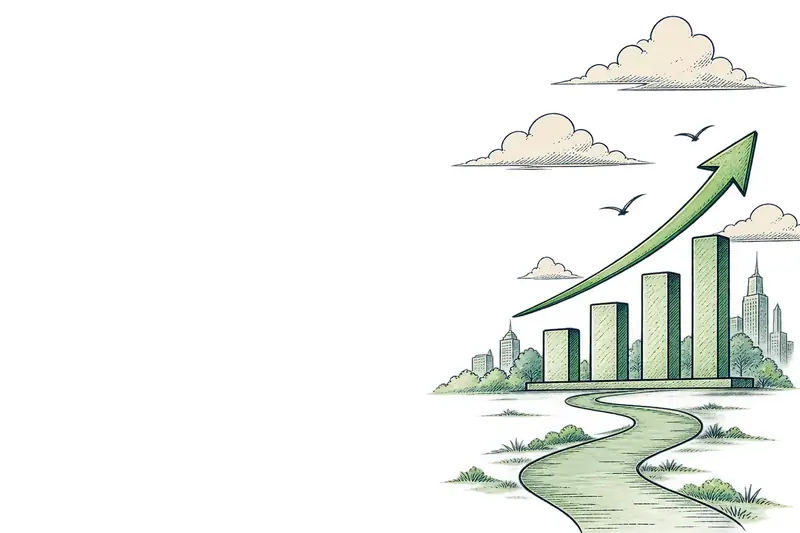
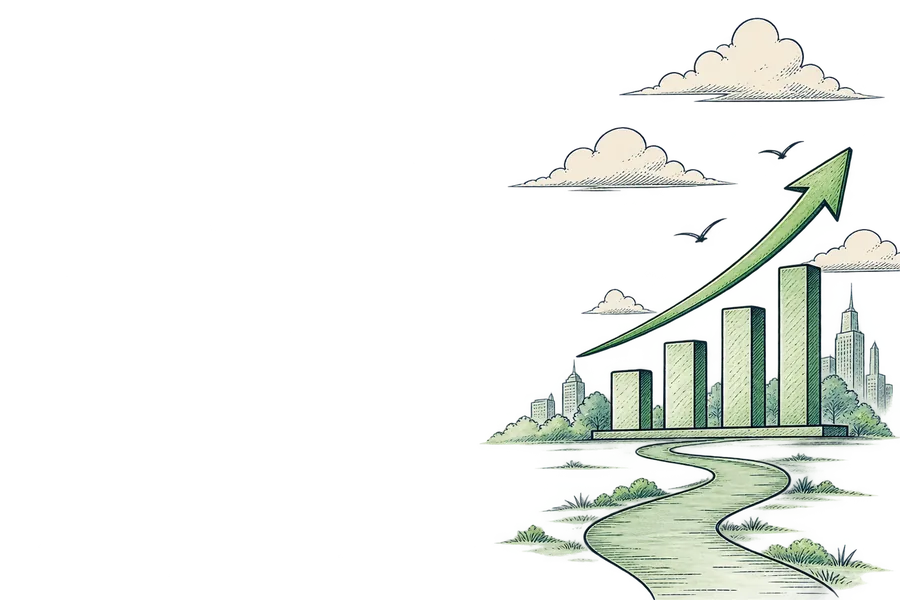
Fix white boxes behind curriculum illustrations.
Replace flattened opaque card webps with alpha-preserving versions so illustrations sit on the tinted cards.

diff --git a/src/components/sections/Modules.tsx b/src/components/sections/Modules.tsx
@@ -45,14 +45,14 @@ function ModuleCard({ mod }: { mod: WorkflowModule }) {
         </p>
       </div>
 
-      <div className="pointer-events-none absolute inset-y-0 right-0 w-[42%] md:w-[44%]">
+      <div className="pointer-events-none absolute inset-y-0 right-0 w-[42%] bg-transparent md:w-[44%]">
         <Image
           src={mod.image}
           alt=""
           fill
           loading="lazy"
-          quality={60}
-          className="origin-bottom-right scale-[1.08] object-contain object-right-bottom opacity-95"
+          quality={80}
+          className="origin-bottom-right scale-[1.08] bg-transparent object-contain object-right-bottom"
           sizes="(max-width: 768px) 42vw, 22vw"
         />
       </div>
@@ -69,13 +69,13 @@ export function Modules() {
         className="pointer-events-none absolute bottom-0 left-0 z-0 h-[70%] w-[min(90%,880px)] opacity-[0.68] sm:h-[76%] sm:w-[72%] lg:h-[86%] lg:w-[62%] xl:w-[60%]"
       >
         <Image
-          src="/images/blr-infra.webp"
+          src="/images/blr-infra.png"
           alt=""
           fill
           loading="lazy"
-          quality={60}
+          quality={68}
           className="origin-bottom-left scale-[1.18] object-contain object-left-bottom"
-          sizes="(max-width: 1024px) min(90vw, 640px), 62vw"
+          sizes="(max-width: 1024px) 90vw, 62vw"
         />
       </RevealMedia>
 
